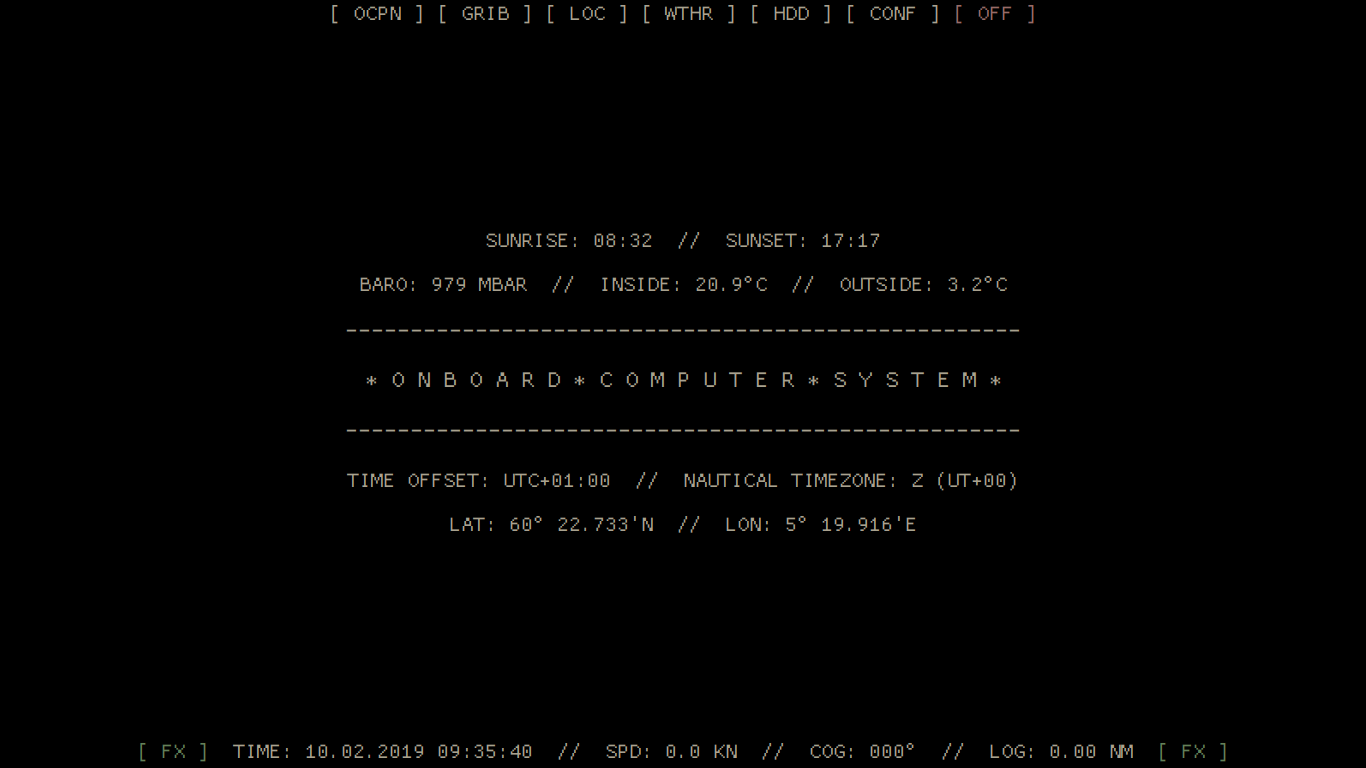
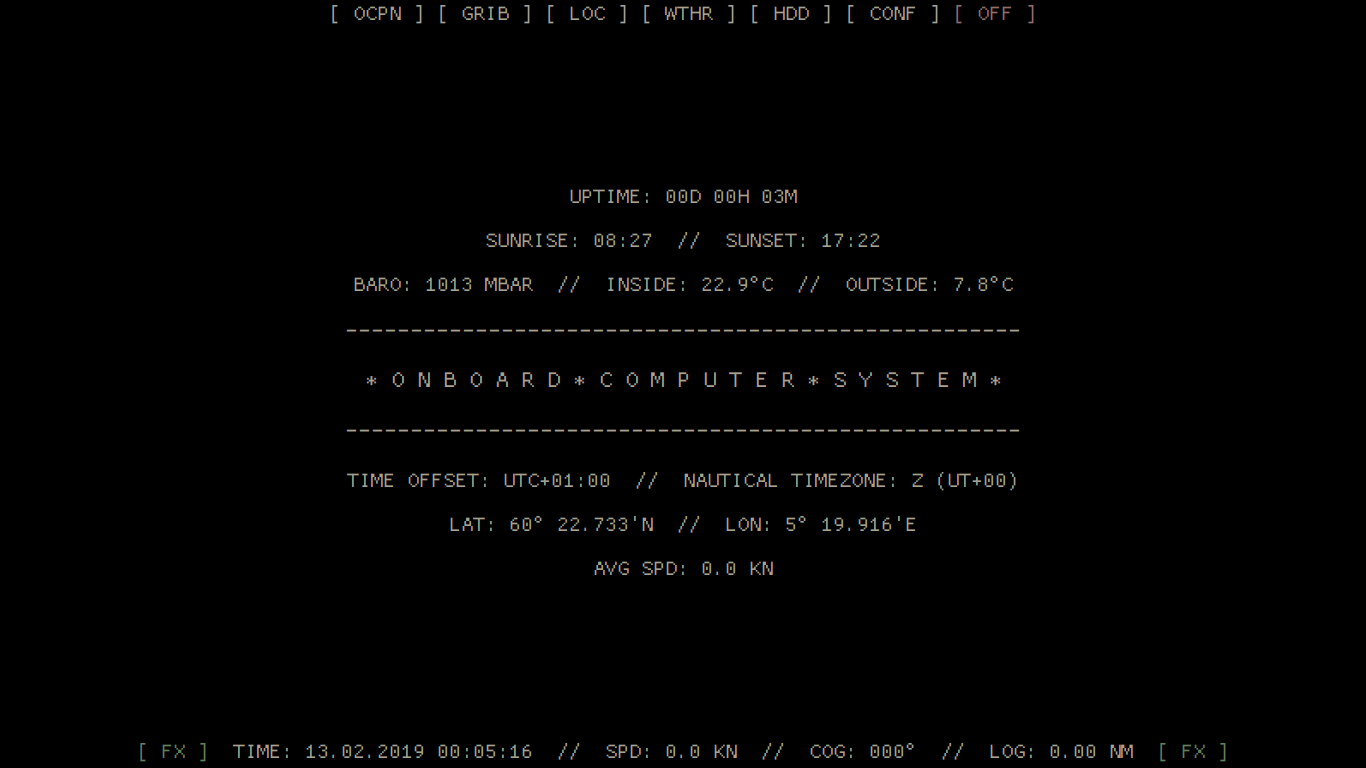
option to toggle display of max speed

diff --git a/ocs_files/.OnboardComputerSystem/OnboardComputerSystem.py b/ocs_files/.OnboardComputerSystem/OnboardComputerSystem.py
@@ -234,6 +234,7 @@ class read_config(threading.Thread):
       global barounit_mmhg
       global tempunit_fahrenheit
       global dateformat_mmddyyy
+      global spdmax_show
       while True:
         if killer.kill_now or error_raised is True:
           break
@@ -285,6 +286,8 @@ class read_config(threading.Thread):
             dateformat_mmddyyy=config.getboolean('Config', 'DateMonthDayYear')
             barounit_mmhg=config.getboolean('Config', 'BaroUnitMmhg')
             tempunit_fahrenheit=config.getboolean('Config', 'TempUnitFahrenheit')
+            #Show max speed
+            spdmax_show=config.getboolean('Config', 'ShowMaxSpd')
             configtime=0
           if start_time_values==0:
             start_time_values=1
@@ -394,8 +397,6 @@ class read_data(threading.Thread):
   def run(self):
     try:
       disttime=0
-      barotime=0
-      temptime=0
       barotime=setbarotime
       temptime=settemptime
       gpsspd1=0
@@ -753,7 +754,7 @@ class output_conky(threading.Thread):
     threading.Thread.__init__(self)
   def run(self):
     try:
-      conkytime=setconkytime
+      conkytime=0
       while True:
         if killer.kill_now or error_raised is True:
           break
@@ -764,7 +765,8 @@ class output_conky(threading.Thread):
             conkyline_weather='BARO: '+baroformatfull+'  //  INSIDE: '+temp1formatfull+'  //  OUTSIDE: '+temp2formatfull
             conkyline_timezone='TIME OFFSET: '+utcoffsetformat+'  //  NAUTICAL TIMEZONE: '+nauticaltimezoneformat
             conkyline_coordinates='LAT: '+gpslatformatfull+'  //  LON: '+gpslonformatfull
-            conkyline_spd='AVG SPD: '+spdavgformatfull+'  //  MAX SPD: '+spdmaxformatfull
+            conkyline_spd='AVG SPD: '+spdavgformatfull
+            if spdmax_show is True: conkyline_spd+='  //  MAX SPD: '+spdmaxformatfull
             conkyline_options=['',conkyline_uptime,conkyline_astronomy,conkyline_weather,conkyline_timezone,conkyline_coordinates,conkyline_spd]
             conkyline1=conkyline_options[conklyline1_selected]
             conkyline2=conkyline_options[conklyline2_selected]
